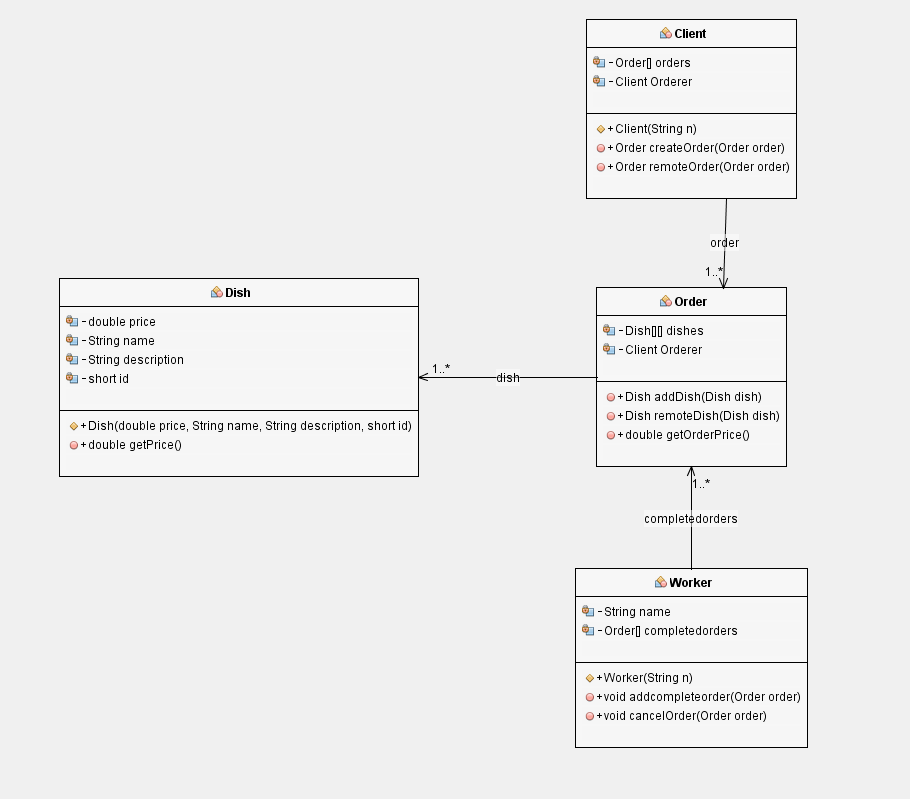
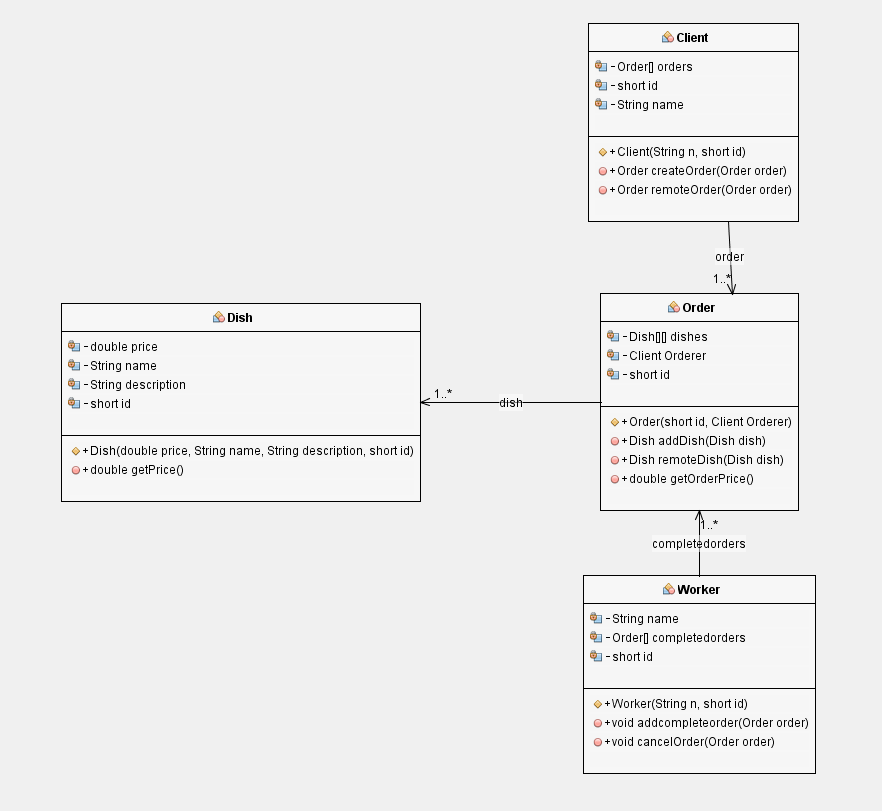
Fix

diff --git a/src/domain/Dish.java b/src/domain/Dish.java
@@ -11,25 +11,9 @@ public class Dish {
     private short id;
 
     public Dish(double price, String name, String description, short id) {
-        this.price = price;
-        this.name = name;
-        this.description = description;
-        this.id = id;
-    }
-
-    public String getName() {
-        return name;
-    }
-
-    public String getDescription() {
-        return description;
-    }
-
-    public short getId() {
-        return id;
     }
 
     public double getPrice() {
-        return price;
+        throw new UnsupportedOperationException("Not supported yet.");
     }
 }

diff --git a/src/domain/Worker.java b/src/domain/Worker.java
@@ -5,9 +5,10 @@ public class Worker {
     private String name;
 
     private Order[] completedorders;
-    
-    public Worker(String n){
-        this.name = n;
+
+    private short id;
+
+    public Worker(String n, short id) {
     }
 
     public void addcompleteorder(Order order) {

diff --git a/src/domain/Client.java b/src/domain/Client.java
@@ -4,10 +4,11 @@ public class Client {
 
     private Order[] orders;
 
+    private short id;
+
     private String name;
-    
-    public Client(String n){
-        this.name = n;
+
+    public Client(String n, short id) {
     }
 
     public Order createOrder(Order order) {

diff --git a/src/domain/Order.java b/src/domain/Order.java
@@ -6,6 +6,11 @@ public class Order {
 
     private Client Orderer;
 
+    private short id;
+
+    public Order(short id, Client Orderer) {
+    }
+
     public Dish addDish(Dish dish) {
         throw new UnsupportedOperationException("Not supported yet.");
     }
